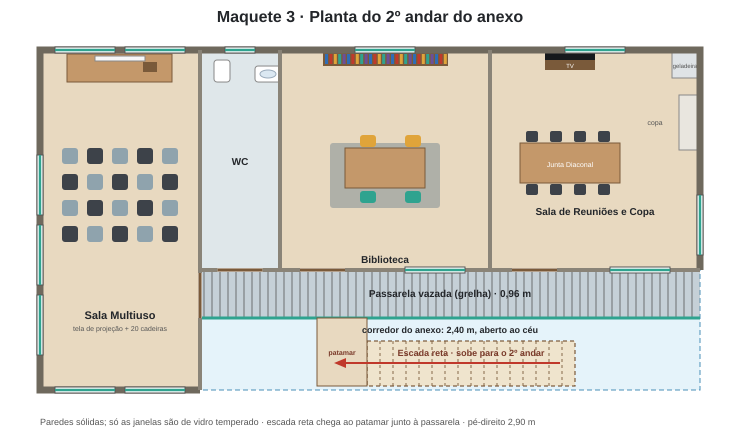
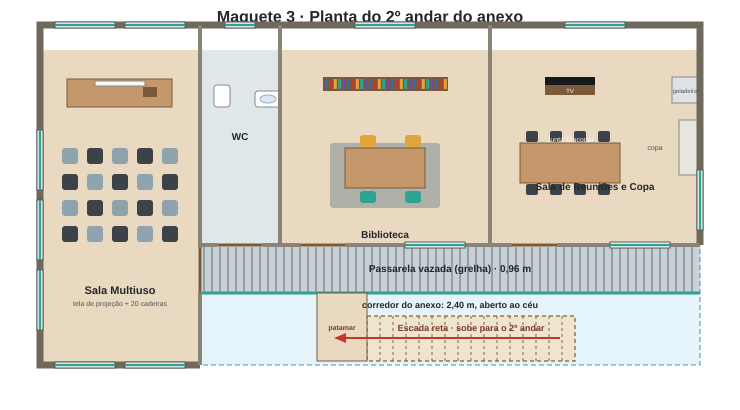
Maquete 3 (Etapa 82): parede dos fundos do anexo puxada 0,50 m para a frente
Claude-Session: https://claude.ai/code/session_015gh4tS64wXyJ2ghbw66cFX

diff --git a/projeto3/maquete.html b/projeto3/maquete.html
@@ -696,7 +696,7 @@
     person(300, 1300, 0.04, PI / 2, 'talk'); person(345, 1305, 0.04, N / 2, 'stand'); person(322, 1340, 0.04, PI, 'stand'); person(340, 1480, 0.04, 0, 'stand');
     person(570, 1210, 0.04, PI, 'stand'); person(585, 1630, 0.04, N / 2, 'stand'); person(545, 1712, 0.04, PI / 2, 'talk'); person(588, 1716, 0.04, N / 2, 'stand');   // na entrada do pátio, logo após o portão (saíram do carro vermelho do Estacionamento 1)
     // anexo: corredor e Sala Multiuso (professora com crianças)
-    person(300, 165, 0.0, PI / 2, 'stand'); person(570, 160, 0.0, N / 2, 'talk'); person(120, 78, 0.0, 0, 'talk');
+    person(300, 165, 0.0, PI / 2, 'stand'); person(570, 160, 0.0, N / 2, 'talk'); person(120, 84, 0.0, 0, 'talk');
     [[80, 160], null, [115, 176], [150, 160], [98, 198]].forEach(function(q){ if (!q){ n++; return; } person(q[0], q[1], 0.0, PI, 'stand', 0.6); });   // null = criança de blusa rosa retirada (mantém as cores das demais)   // Etapa 70: crianças afastadas da mesa (a de blusa rosa foi retirada)
     // Etapa 76: mais fiéis sentados nos bancos da nave (≈ 60 a mais; gerados com sorteio fixo, sem pesar: tudo vira a mesma malha única)
     (function(){
@@ -1660,9 +1660,9 @@
     { id: 'escadaalto', name: 'Escada (de cima)', g: 'Anexo', pos: [5.8, 4.6, -15.4], tgt: [1.0, 1.2, -14.0], roof: false, labels: false },
     { id: 'sala3a', name: 'Sala 3 (anexo)', g: 'Anexo', pos: [5.7, 1.65, -16.04], tgt: [3.5, 1.3, -17.5], roof: true, labels: false, fp: true },
   ];
-  // ---------- MAQUETE 3 (Etapa 77): salas do anexo (térreo e 2º andar) mais fundas: a parede dos fundos recua 2,10 m (3 bancos da nave) para o norte, sem mexer no corredor ----------
+  // ---------- MAQUETE 3 (Etapa 77): salas do anexo (térreo e 2º andar) mais fundas: a parede dos fundos recua 1,60 m (Etapa 82: puxada 0,50 m para a frente; antes 2,10 m) para o norte, sem mexer no corredor ----------
   var ANX = (function(){
-    var D = 105 * S, zb = Z(-10), zf = Z(105), dep = zf - zb, k = (dep + D) / dep, xW = [X(40), X(700)];
+    var D = 80 * S, zb = Z(-10), zf = Z(105), dep = zf - zb, k = (dep + D) / dep, xW = [X(40), X(700)];
     function f(z){ return z >= zf ? z : zf - (zf - z) * k; }
     function inX(c){ return c > X(30) && c < X(705); }
     scene.children.slice().forEach(function(gr){
